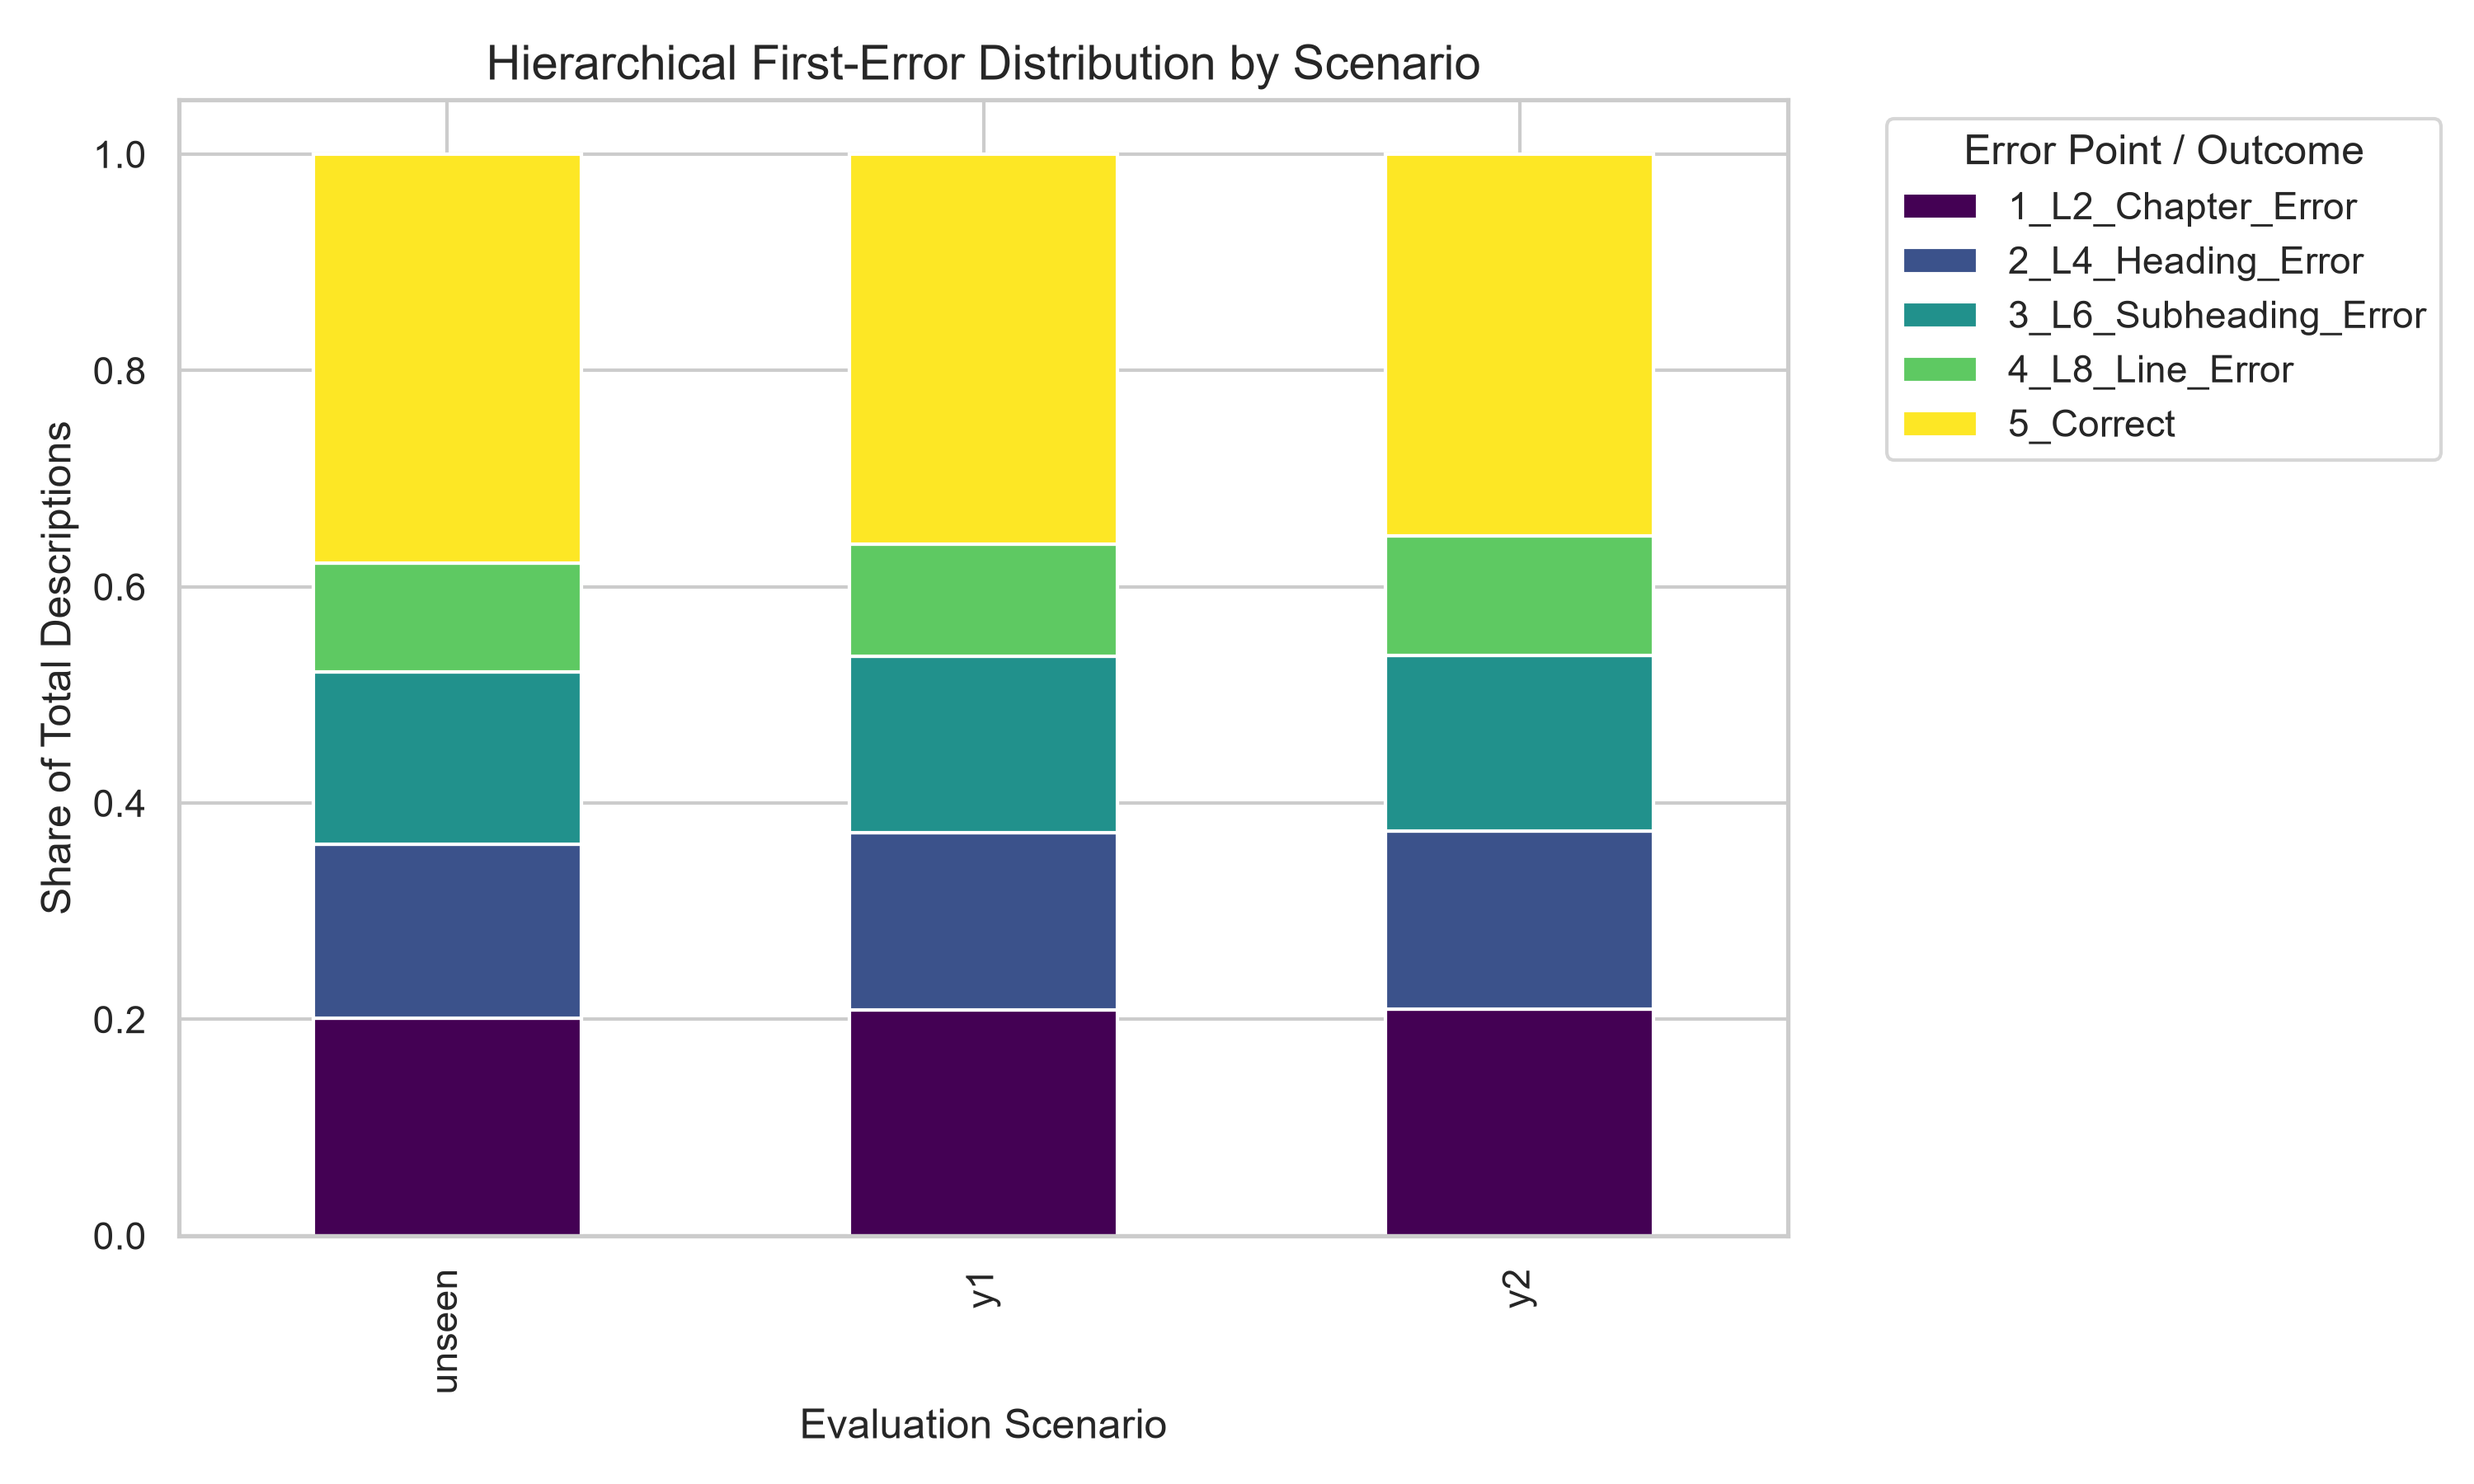
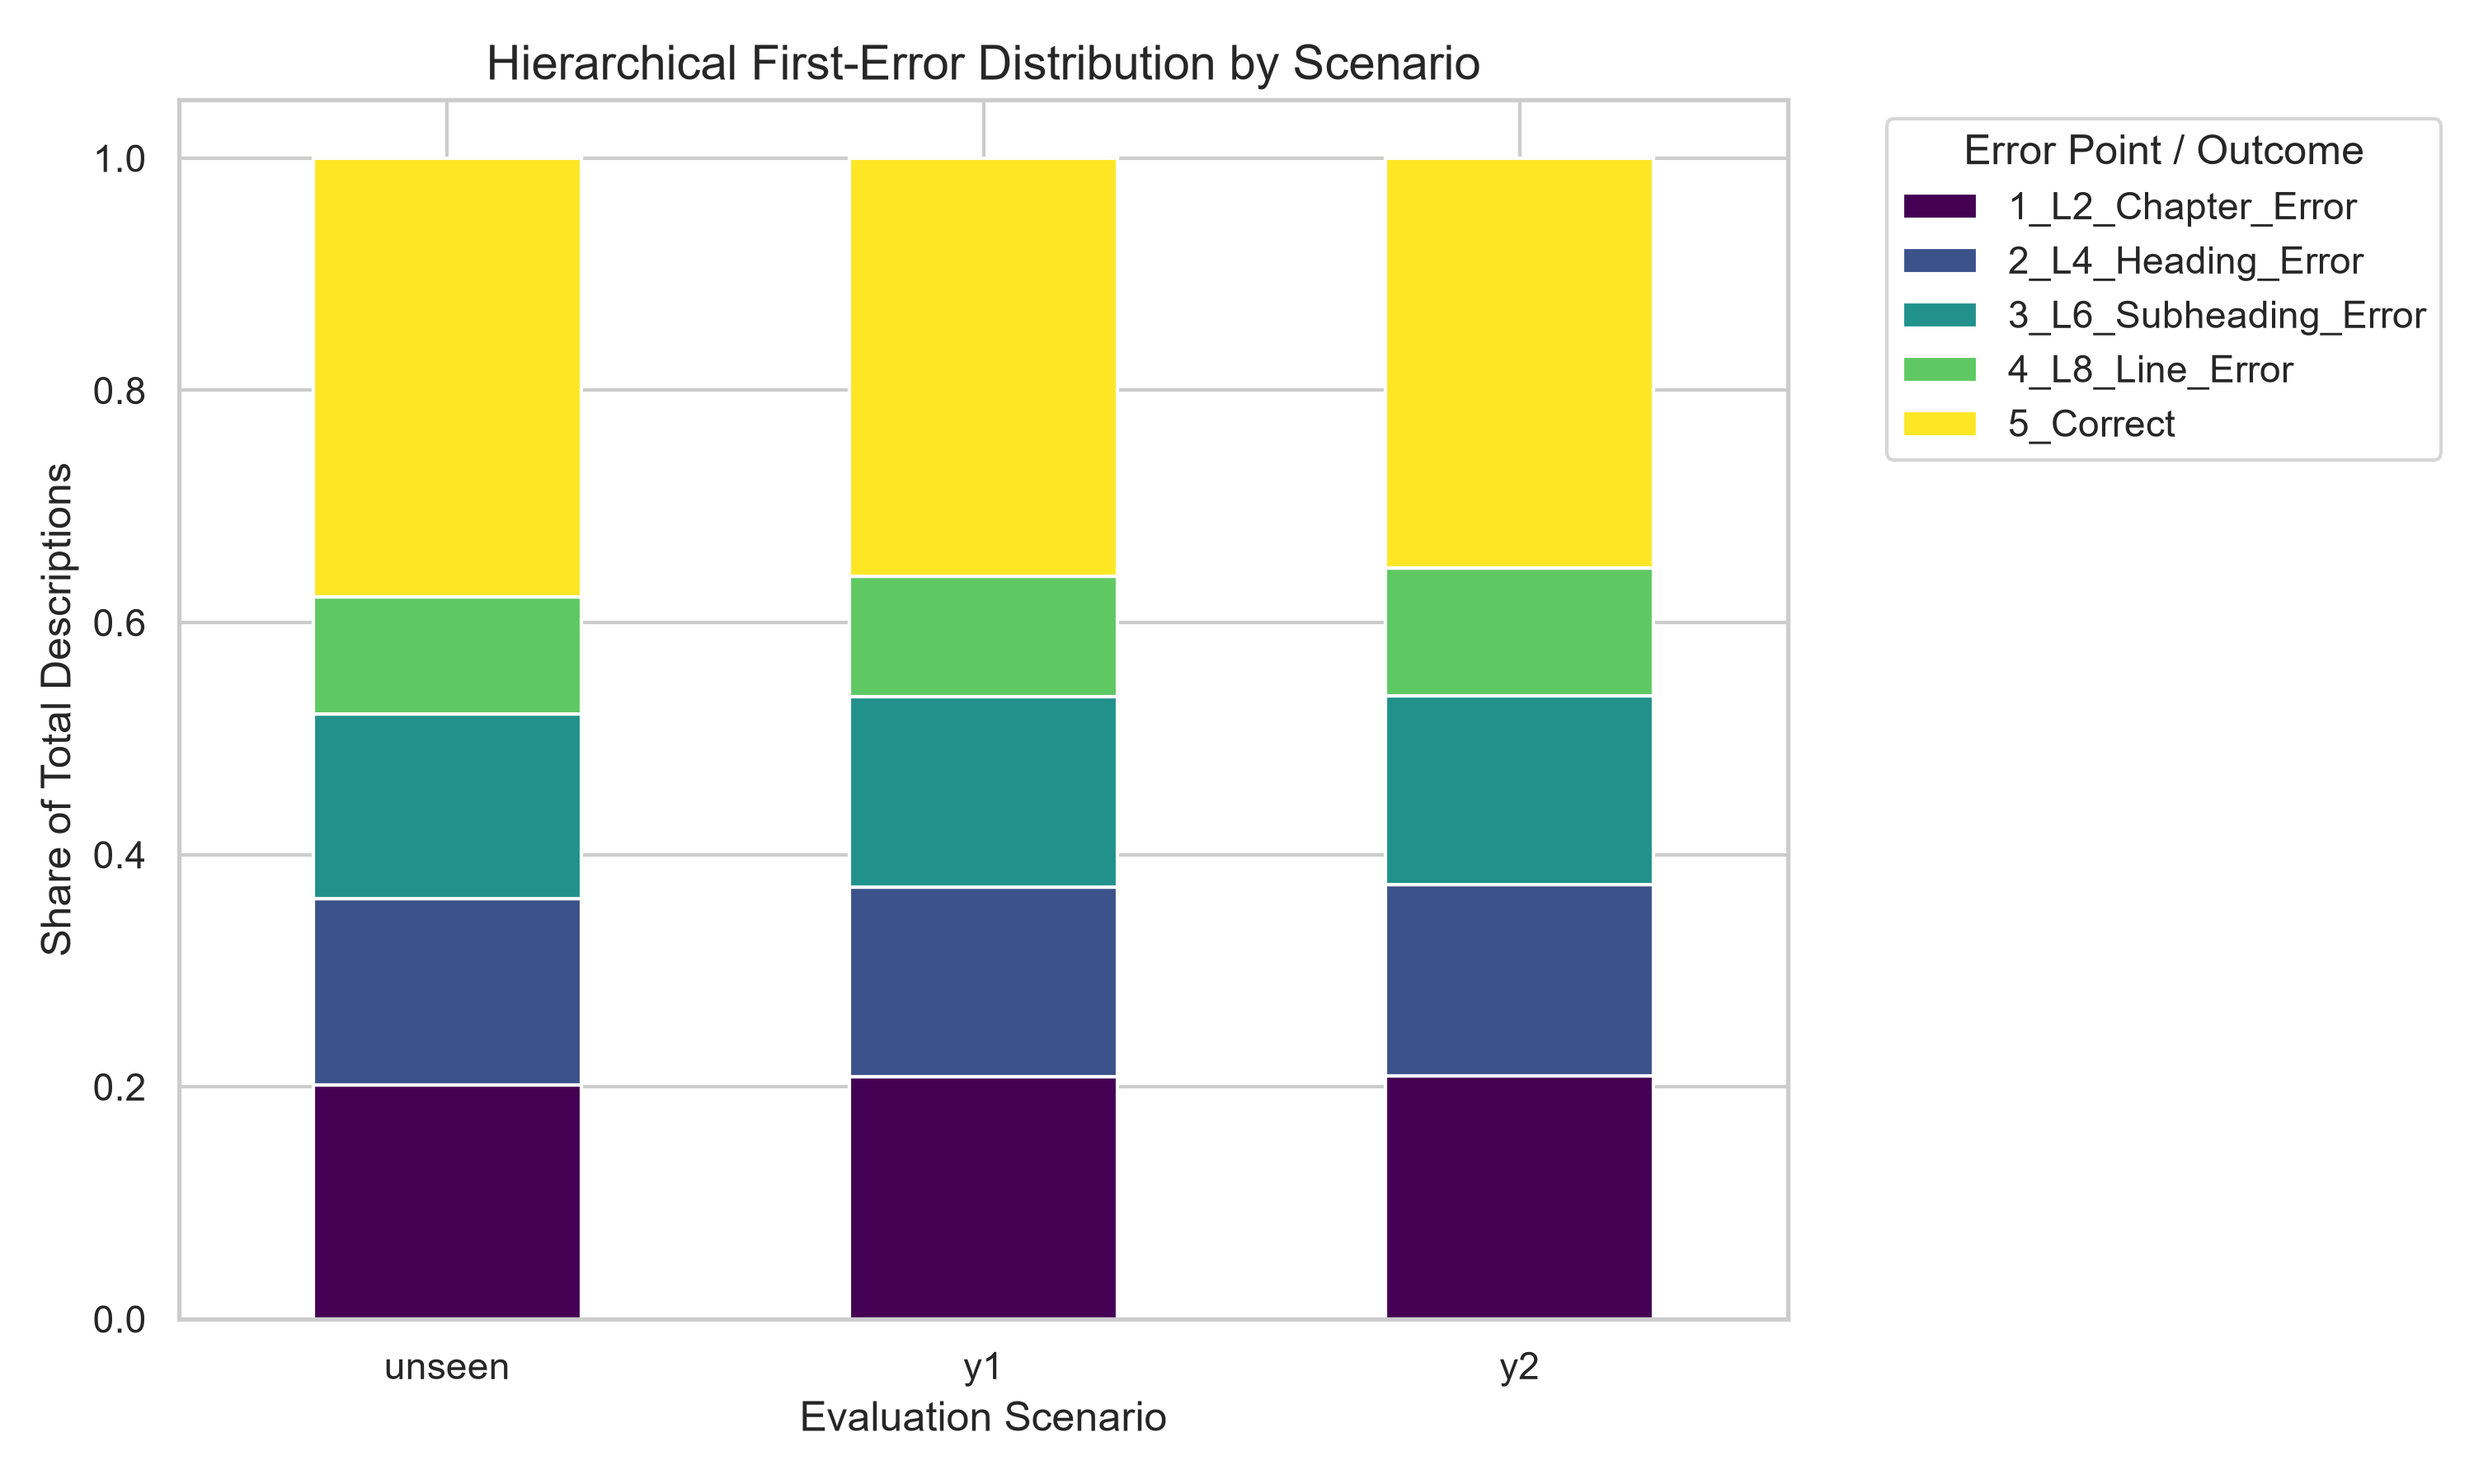
C8: Fix chart labels

diff --git a/scripts/track_c/c8_5_report.py b/scripts/track_c/c8_5_report.py
@@ -23,6 +23,7 @@ def run_c8_5():
         df_err = pd.read_csv(tables_dir / "c8_hierarchical_errors.csv")
         df_err_pivot = df_err.pivot(index='scenario', columns='first_error_level', values='share_of_total')
         ax = df_err_pivot.plot(kind='bar', stacked=True, figsize=(10, 6), colormap='viridis')
+        ax.tick_params(axis='x', labelrotation=0)
         plt.title("Hierarchical First-Error Distribution by Scenario", fontsize=14)
         plt.ylabel("Share of Total Descriptions")
         plt.xlabel("Evaluation Scenario")
@@ -38,7 +39,7 @@ def run_c8_5():
         df_cm = pd.read_csv(diag_dir / "cm_chapter_norm_unseen.csv", index_col=0)
         plt.figure(figsize=(8, 6))
         sns.heatmap(df_cm, annot=True, fmt=".2f", cmap="Blues", vmin=0, vmax=1)
-        plt.title("Chapter Confusion Matrix (Row-Normalized) - Unseen Set", fontsize=14)
+        plt.title("Chapter Confusion Matrix (Unseen Set)", fontsize=14)
         plt.ylabel("True Chapter")
         plt.xlabel("Predicted Chapter")
         plt.tight_layout()
@@ -52,7 +53,7 @@ def run_c8_5():
         df_wl = pd.read_csv(diag_dir / "workload_unseen.csv")
         plt.figure(figsize=(8, 5))
         ax = sns.barplot(x='Level', y='Accepted_Coverage_Pct', data=df_wl, color=base_color)
-        plt.title("AI Automation Coverage by Hierarchical Level (Unseen Set)", fontsize=14)
+        plt.title("Coverage by Hierarchical Level (Unseen Set)", fontsize=14)
         plt.ylabel("Coverage % (Auto-Accepted)")
         plt.xlabel("HS Code Level")
         # Fixed warning using standard matplotlib formatter
@@ -63,6 +64,8 @@ def run_c8_5():
     except Exception as e:
         print(f"  [Skip] Chart 3 Error: {e}")
 
+    # Chart 4: Risk Coverage curve in another file
+    
     print("2. Extracting Dynamic Metrics...")
     metrics = {
         'unseen_m1_l8': 'N/A', 'unseen_m2_l8': 'N/A', 'unseen_m3_l8': 'N/A', 'y1_m1_l8': 'N/A',
